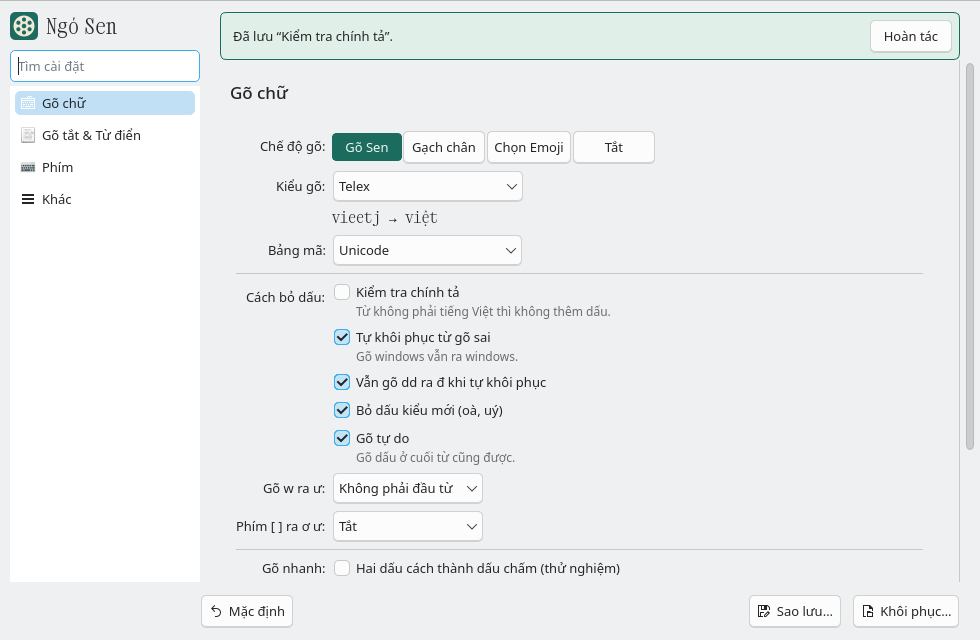
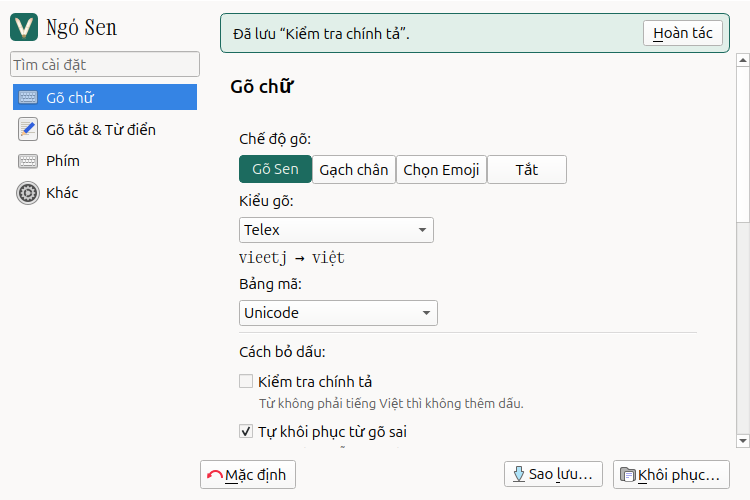
feat(blog): draft the 1.4 cleanup post and retake the settings screenshots
The post covers the self-configuring installer on GNOME, the hidden
fcitx5 launchers, --uninstall and --no-setup, and the removed options.
It stays a draft until 1.4.0-1 is public. The settings screenshots are
retaken from next-build on Ubuntu 26.04 with the Qt Fusion style and
show the new icon.

Claude-Session: https://claude.ai/code/session_01JdXPM1moo4vhf7hRzhm7ds

diff --git a/src/content/blog/toi-uu-lai-lenh-cai-va-tuy-chon.md b/src/content/blog/toi-uu-lai-lenh-cai-va-tuy-chon.md
@@ -1,0 +1,81 @@
+---
+title: "Ngó Sen 1.4 tối ưu lại lệnh cài và bỏ bớt tuỳ chọn thừa"
+description: "Trên GNOME, lệnh cài một dòng tự đặt fcitx5 thay IBus, thêm Ngó Sen vào danh sách bộ gõ và ẩn icon fcitx5 thừa. Cửa sổ cấu hình bớt mục chỉ dùng để dò lỗi."
+pubDate: 2026-10-14
+draft: true
+---
+
+Ngó Sen 1.4 tối ưu lại nhiều chỗ. Lệnh cài một dòng tự làm các bước cấu hình mà trước đây người dùng
+phải làm tay, nhất là trên GNOME. Các tuỳ chọn và đoạn code không còn cần thì được bỏ đi.
+
+## Cài trên GNOME
+
+Trước đây, cài Ngó Sen trên GNOME (desktop mặc định của Ubuntu) xong vẫn phải tự đặt fcitx5 thay IBus,
+rồi tự thêm Ngó Sen vào danh sách bộ gõ. Giờ lệnh cài làm các việc đó:
+
+- đặt fcitx5 làm bộ gõ thay IBus: fcitx5 tự chạy khi đăng nhập, app được đặt biến môi trường để gõ qua
+  fcitx5;
+- thêm Ngó Sen vào danh sách bộ gõ;
+- bật extension sửa lỗi gõ, chỉ trên GNOME 50.0 đến 50.3 là các bản có lỗi kể ở bài
+  [Ubuntu 26.04 lỗi gõ tiếng Việt ra chữ sai](/blog/ubuntu-26-04-go-tieng-viet-ra-chu-sai/);
+- trên GNOME không có khay hệ thống, như Fedora, cài thêm extension
+  [Input Method Panel](https://extensions.gnome.org/extension/261/) để biểu tượng và menu bộ gõ hiện trên
+  thanh trên cùng. Ubuntu đã có khay nên không cài thêm.
+
+Cài xong, đăng xuất rồi đăng nhập lại, sau đó bấm Ctrl+Shift để bật tiếng Việt. Phím mặc định trước đây là
+Ctrl+Space, nhưng đó cũng là phím gợi ý code của VS Code. Ai đã tự chọn phím khác cho fcitx5 thì phím đó
+giữ nguyên.
+
+### Bớt icon thừa trong danh sách app
+
+Gói fcitx5 cài kèm vài icon trong danh sách app mà người dùng Ngó Sen không cần mở. Lệnh cài ẩn chúng
+đi:
+
+- icon mở fcitx5, vì fcitx5 đã tự chạy khi đăng nhập;
+- icon công cụ chuyển cấu hình từ fcitx4, vì người dùng Ngó Sen không cần chuyển cấu hình cũ;
+- icon "Fcitx5 Configuration", nhưng chỉ khi khay hệ thống hoặc menu của Input Method Panel đã mở được
+  cùng cửa sổ đó.
+
+Icon chỉ ẩn với tài khoản đang chạy lệnh, app vẫn nằm nguyên trên máy.
+
+### Nhiều tài khoản và cài tay
+
+Lệnh cài chỉ đổi cấu hình của tài khoản đang chạy nó. Máy có nhiều tài khoản thì đăng nhập vào từng tài
+khoản rồi chạy lại lệnh cài.
+
+Muốn tự làm các bước trên thì thêm `--no-setup`, lệnh chỉ cài gói như trước:
+
+```
+curl -fsSL https://raw.githubusercontent.com/ngosen/ngosen/main/install.sh | bash -s -- --no-setup
+```
+
+## Gỡ bằng một dòng lệnh
+
+Lệnh cài có thêm `--uninstall`. Nó gỡ Ngó Sen, và trên GNOME thì trả lại những gì lệnh cài đã đổi, để lần
+đăng nhập sau GNOME dùng lại IBus:
+
+```
+curl -fsSL https://raw.githubusercontent.com/ngosen/ngosen/main/install.sh | bash -s -- --uninstall
+```
+
+## Bớt tuỳ chọn thừa
+
+Cửa sổ cấu hình chung của fcitx5 không còn hiện 10 mục "Experiment" của Ngó Sen. Các mục này chỉ dùng khi
+dò lỗi. Giá trị cũ vẫn giữ, và vẫn chỉnh được trong file `ngosen.conf` khi cần.
+
+Trang Gõ chữ trong cửa sổ cài đặt bỏ mục "Đọc chữ quanh con trỏ". Mục này mặc định tắt, và là cách chữa
+tạm lỗi gõ trên Messenger từ trước khi Ngó Sen có cách sửa riêng. Ai từng bật nó thì giờ gõ như mọi người
+khác.
+
+Một phần code không còn chỗ nào dùng cũng được bỏ. Người dùng không thấy khác gì.
+
+## Sửa lỗi
+
+Gói Ngó Sen dựng lại được. Kho mã lõi Go mà Ngó Sen dùng đã bị xoá khỏi GitHub, nên mọi lần dựng gói đều
+hỏng ngay bước tải mã. Lõi Go giờ lấy từ bản sao [ngosen/bamboo-go-core](https://github.com/ngosen/bamboo-go-core),
+cùng đúng bản code như trước.
+
+## Cập nhật
+
+Chạy lại lệnh cài ở [trang Cài đặt](/cai-dat/). Cấu hình cũ giữ nguyên. Trên GNOME, đăng xuất rồi đăng
+nhập lại để các bước cấu hình mới có tác dụng.
